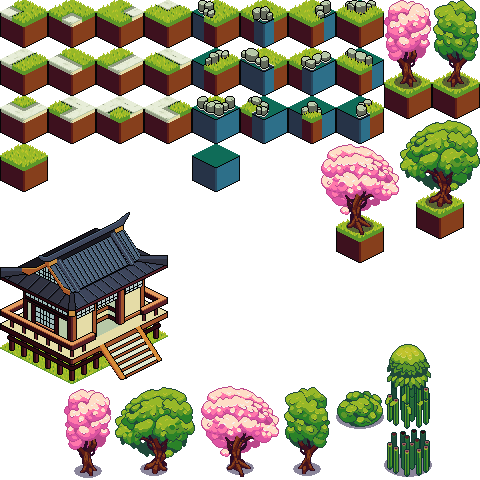
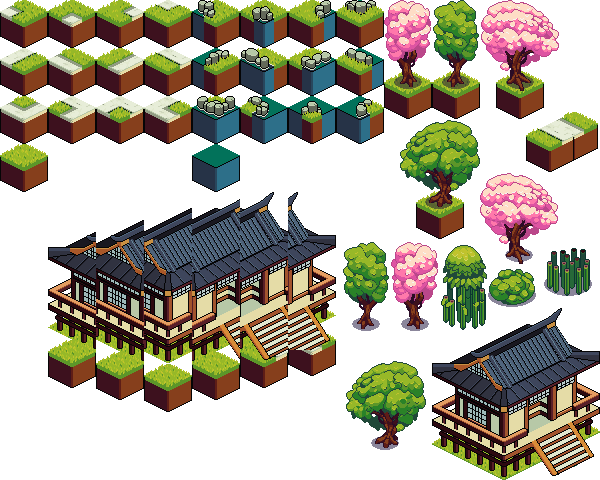
temple tiled, need to address 'behind' logistics

diff --git a/website/src/terrain/path.definition.js b/website/src/terrain/path.definition.js
@@ -79,8 +79,8 @@ module.exports = {
         {
             name: "bigsakura",
             sprite: {
-                x: 320,
-                y: 144,
+                x: 480,
+                y: 0,
                 w: 80,
                 h: 119,
             },
@@ -96,32 +96,120 @@ module.exports = {
             },
             limit: 2,
         },
-/*
+
         {
-            name: "grass-foliage-0" ,
+            name: "temple-2",
+            sprite: {
+                x: 48,
+                y: 192,
+                w: 48,
+                h: 196,
+            },
             tl: ['0-0'],
             bl: ['0-0'],
-            br: ['0-0'],
+            br: ['2'],
             tr: ['0-0'],
-            weight: 3,
-            limit: 8,
-        },
-        {
-            name: "grass-foliage-1" ,
-            tl: ['0-0'],
-            bl: ['0-0'],
-            br: ['0-0'],
-            tr: ['0-0'],
-            weight: 3,
-            limit: 4,
+            limit: 1,
             ban: {
-                tl:['grass-foliage-1'],
-                bl:['grass-foliage-1'],
-                br:['grass-foliage-1'],
-                tr:['grass-foliage-1'],
-            }
+                br: ['temple+3', 'temple+2', 'temple+1', 'temple+0', 'temple-3'],
+            },
+            weight: 999,
         },
-*/
+        {
+            name: "temple-1",
+            sprite: {
+                x: 96,
+                y: 192,
+                w: 48,
+                h: 208,
+            },
+            tl: ['2'],
+            bl: ['0-0'],
+            br: ['2'],
+            tr: ['0-0'],
+            limit: 1,
+            ban: {
+                tl: ['temple+3', 'temple+2', 'temple+1', 'temple+0', 'temple-3'],
+                br: ['temple+3', 'temple+2', 'temple+1', 'temple-2', 'temple-3'],
+            },
+            weight: 999,
+        },
+        {
+            name: "temple+0",
+            sprite: {
+                x: 144,
+                y: 192,
+                w: 48,
+                h: 220,
+            },
+            tl: ['2'],
+            bl: ['0-0'],
+            br: ['0-0'],
+            tr: ['2'],
+            limit: 1,
+            ban: {
+                tl: ['temple+3', 'temple+2', 'temple+1', 'temple-2', 'temple-3'],
+                tr: ['temple+3', 'temple+2', 'temple-1', 'temple-2', 'temple-3'],
+            },
+            weight: 999,
+        },
+        {
+            name: "temple+1",
+            sprite: {
+                x: 192,
+                y: 192,
+                w: 48,
+                h: 208,
+            },
+            tl: ['0-0'],
+            bl: ['2'],
+            br: ['0-0'],
+            tr: ['2'],
+            limit: 1,
+            ban: {
+                bl: ['temple+3', 'temple+2', 'temple-1', 'temple-2', 'temple-3'],
+                tr: ['temple+3', 'temple+0', 'temple-1', 'temple-2', 'temple-3'],
+            },
+            weight: 999,
+        },
+        {
+            name: "temple+2",
+            sprite: {
+                x: 240,
+                y: 192,
+                w: 48,
+                h: 196,
+            },
+            tl: ['0-0'],
+            bl: ['2'],
+            br: ['0-1'],
+            tr: ['2'],
+            ban: {
+                bl: ['temple+3', 'temple+0', 'temple-1', 'temple-2', 'temple-3'],
+                tr: ['temple+1', 'temple+0', 'temple-1', 'temple-2', 'temple-3'],
+            },
+            weight: 999,
+            limit: 1,
+        },
+        {
+            name: "temple+3",
+            sprite: {
+                x: 288,
+                y: 192,
+                w: 48,
+                h: 184,
+            },
+            tl: ['0-0'],
+            bl: ['2'],
+            br: ['1-0'],
+            tr: ['0-0'],
+            ban: {
+                bl: ['temple+1', 'temple+0', 'temple-1', 'temple-2', 'temple-3'],
+            },
+            weight: 999,
+            limit: 1,
+        },
+
         {
             name: "corner-0" ,
             sprite: {
